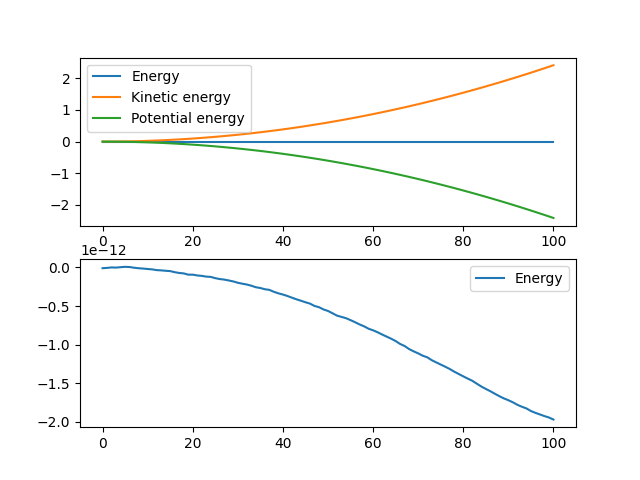
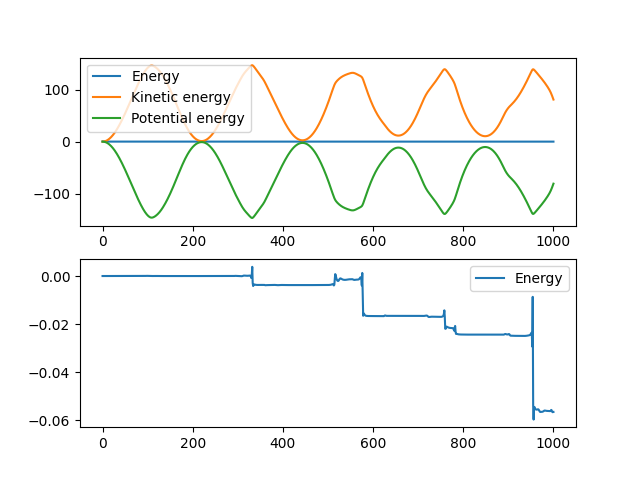
Passing all tests

diff --git a/multibodypendulum/npendul.py b/multibodypendulum/npendul.py
@@ -392,8 +392,8 @@ if __name__ == '__main__':
     times, thetas, dthetas = mbp.simulate(nsteps,theta0,dtheta0)
     t1 = time.time()
     print(f"simulated {nsteps} steps for a {n}-pendulum in {t1-t0:2.2f}s")
-    # mbp.plot_energy(file='./energy.png')
-    mbp.animate_pendulum()
+    mbp.plot_energy(file='../docs/energy.png')
+    # mbp.animate_pendulum()
     x,y = mbp.xy
     vx,vy = mbp.vxy
     x2 = mbp.extend_tensor(x)

diff --git a/README.md b/README.md
@@ -8,7 +8,7 @@ and the energy:
 ![Energy](https://github.com/tueboesen/multi-body-pendulum/blob/master/docs/energy.png)
 
 ## Installation
-pip install multibodypendulum
+    pip install multibodypendulum
 
 ## Quick start
 A quick usecase to simulate a 5 pendulum system could look like this
